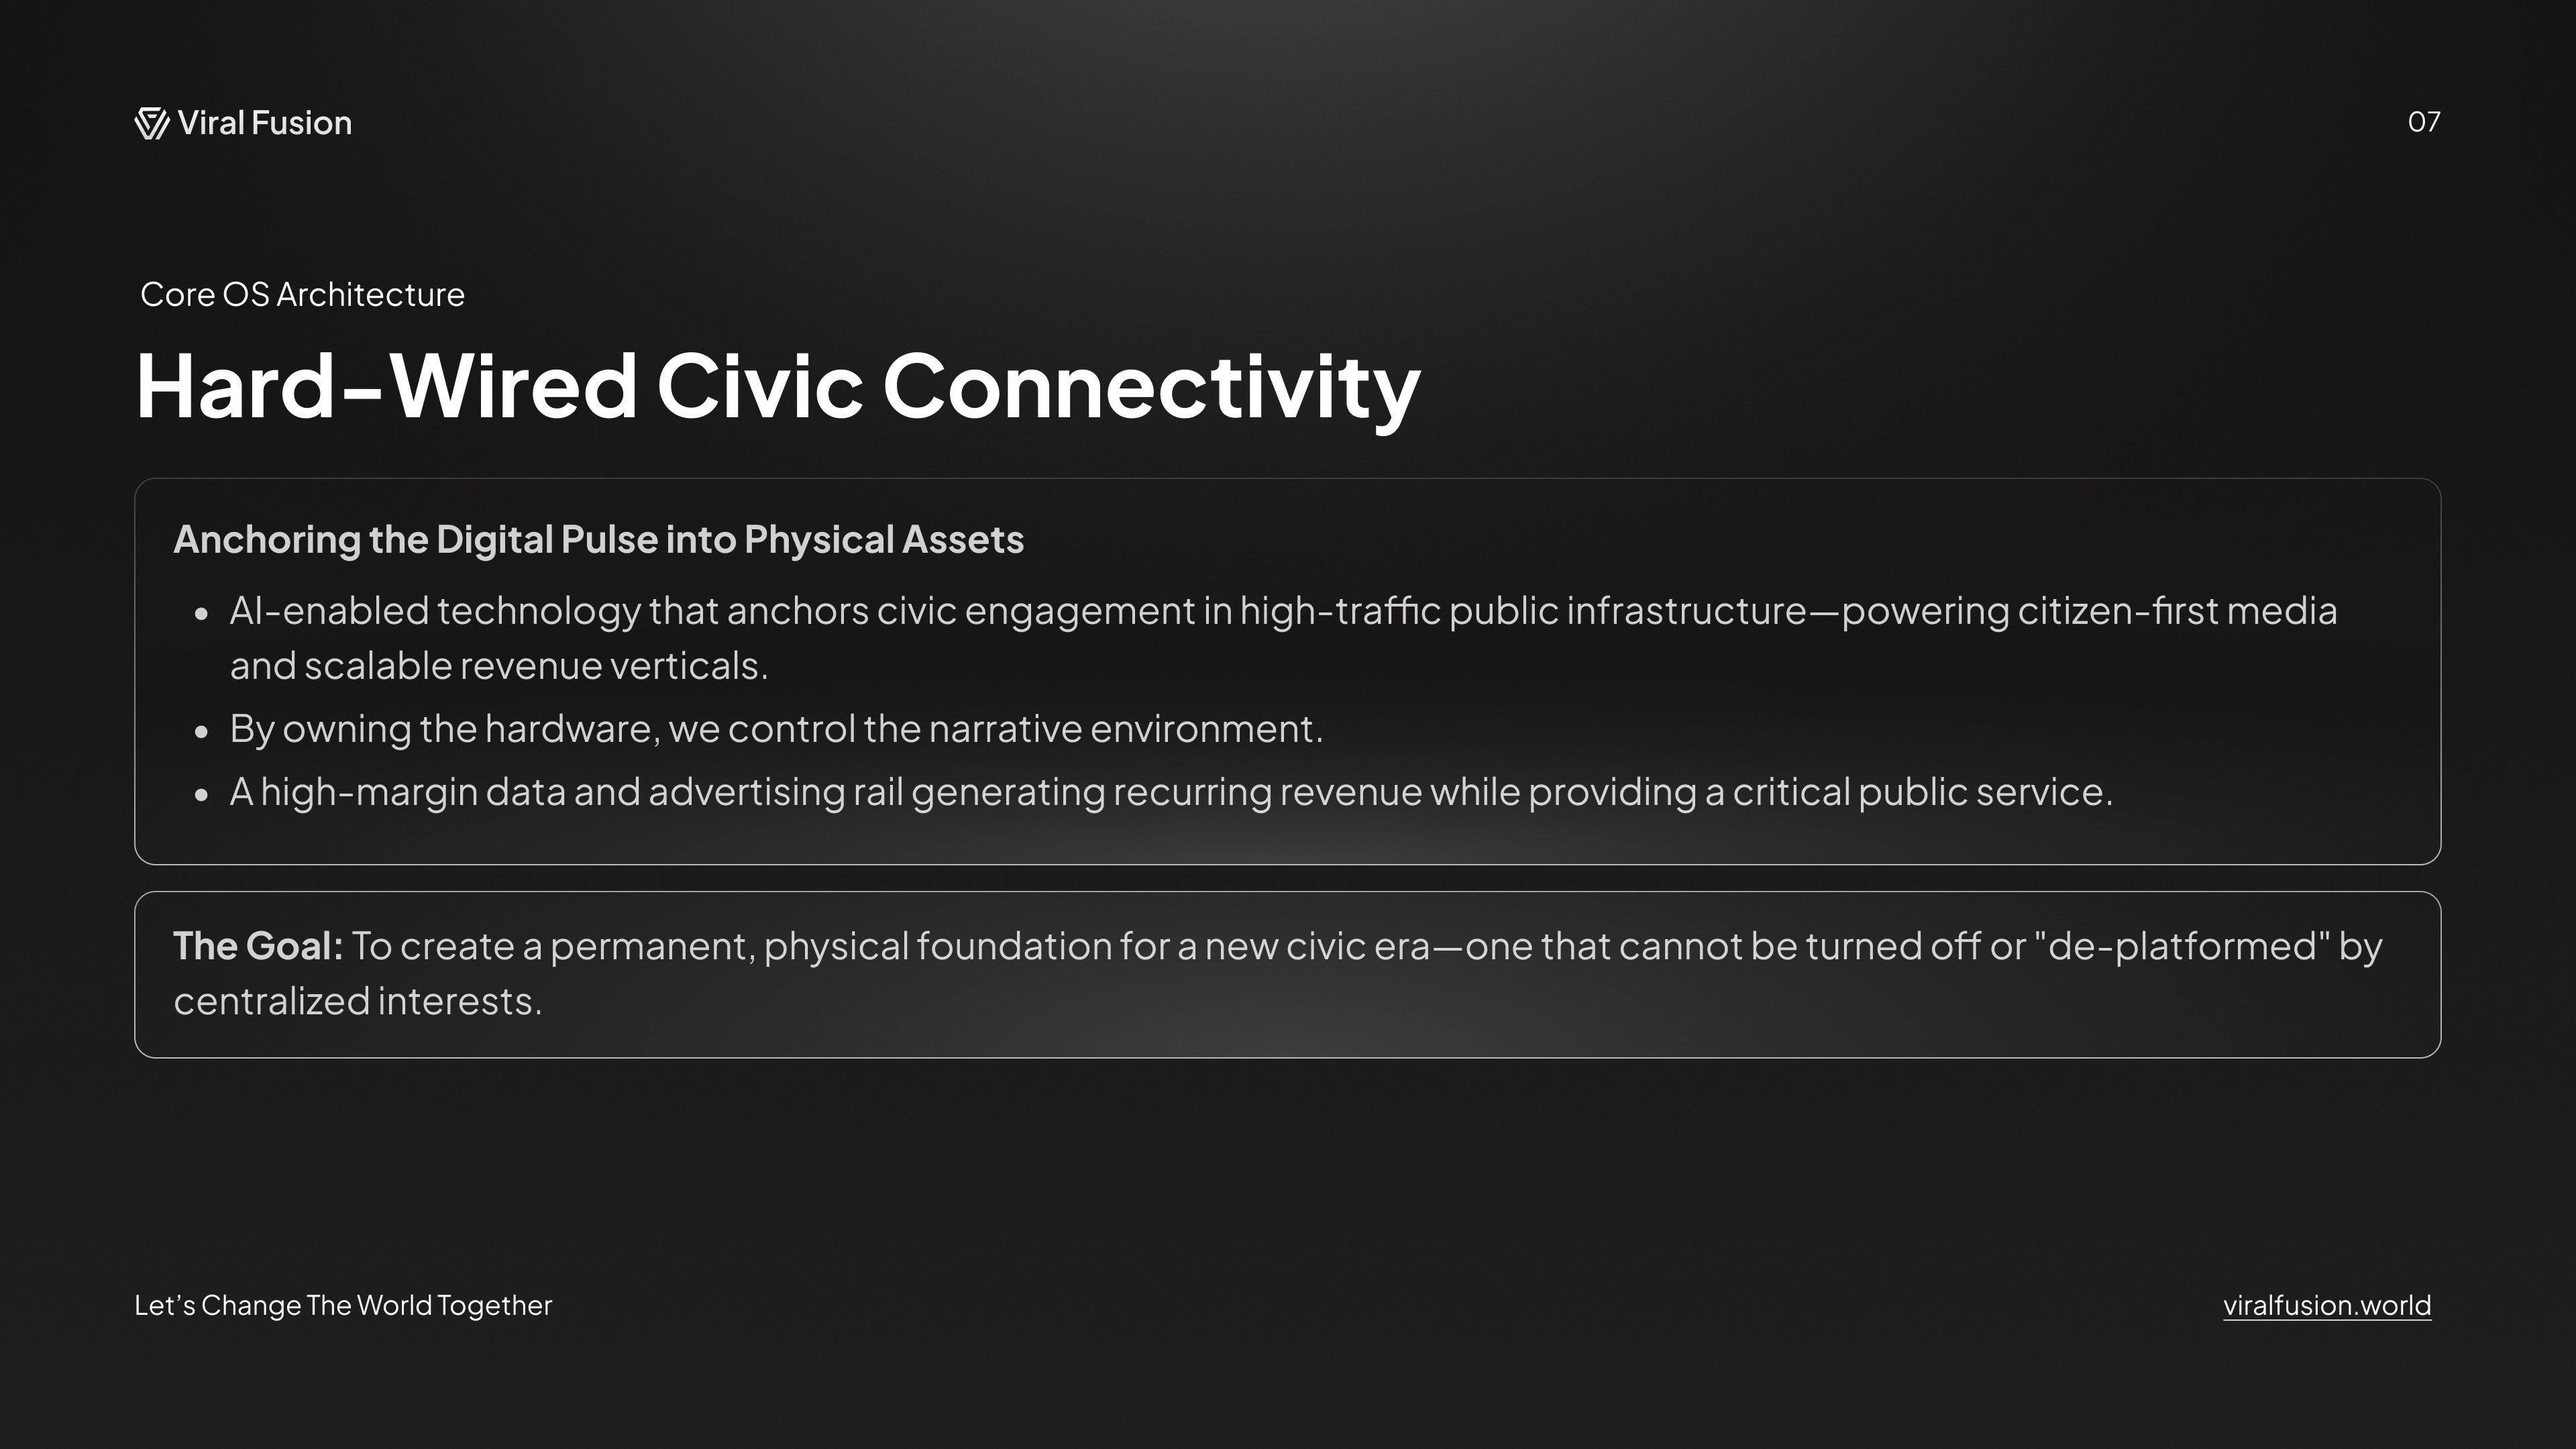
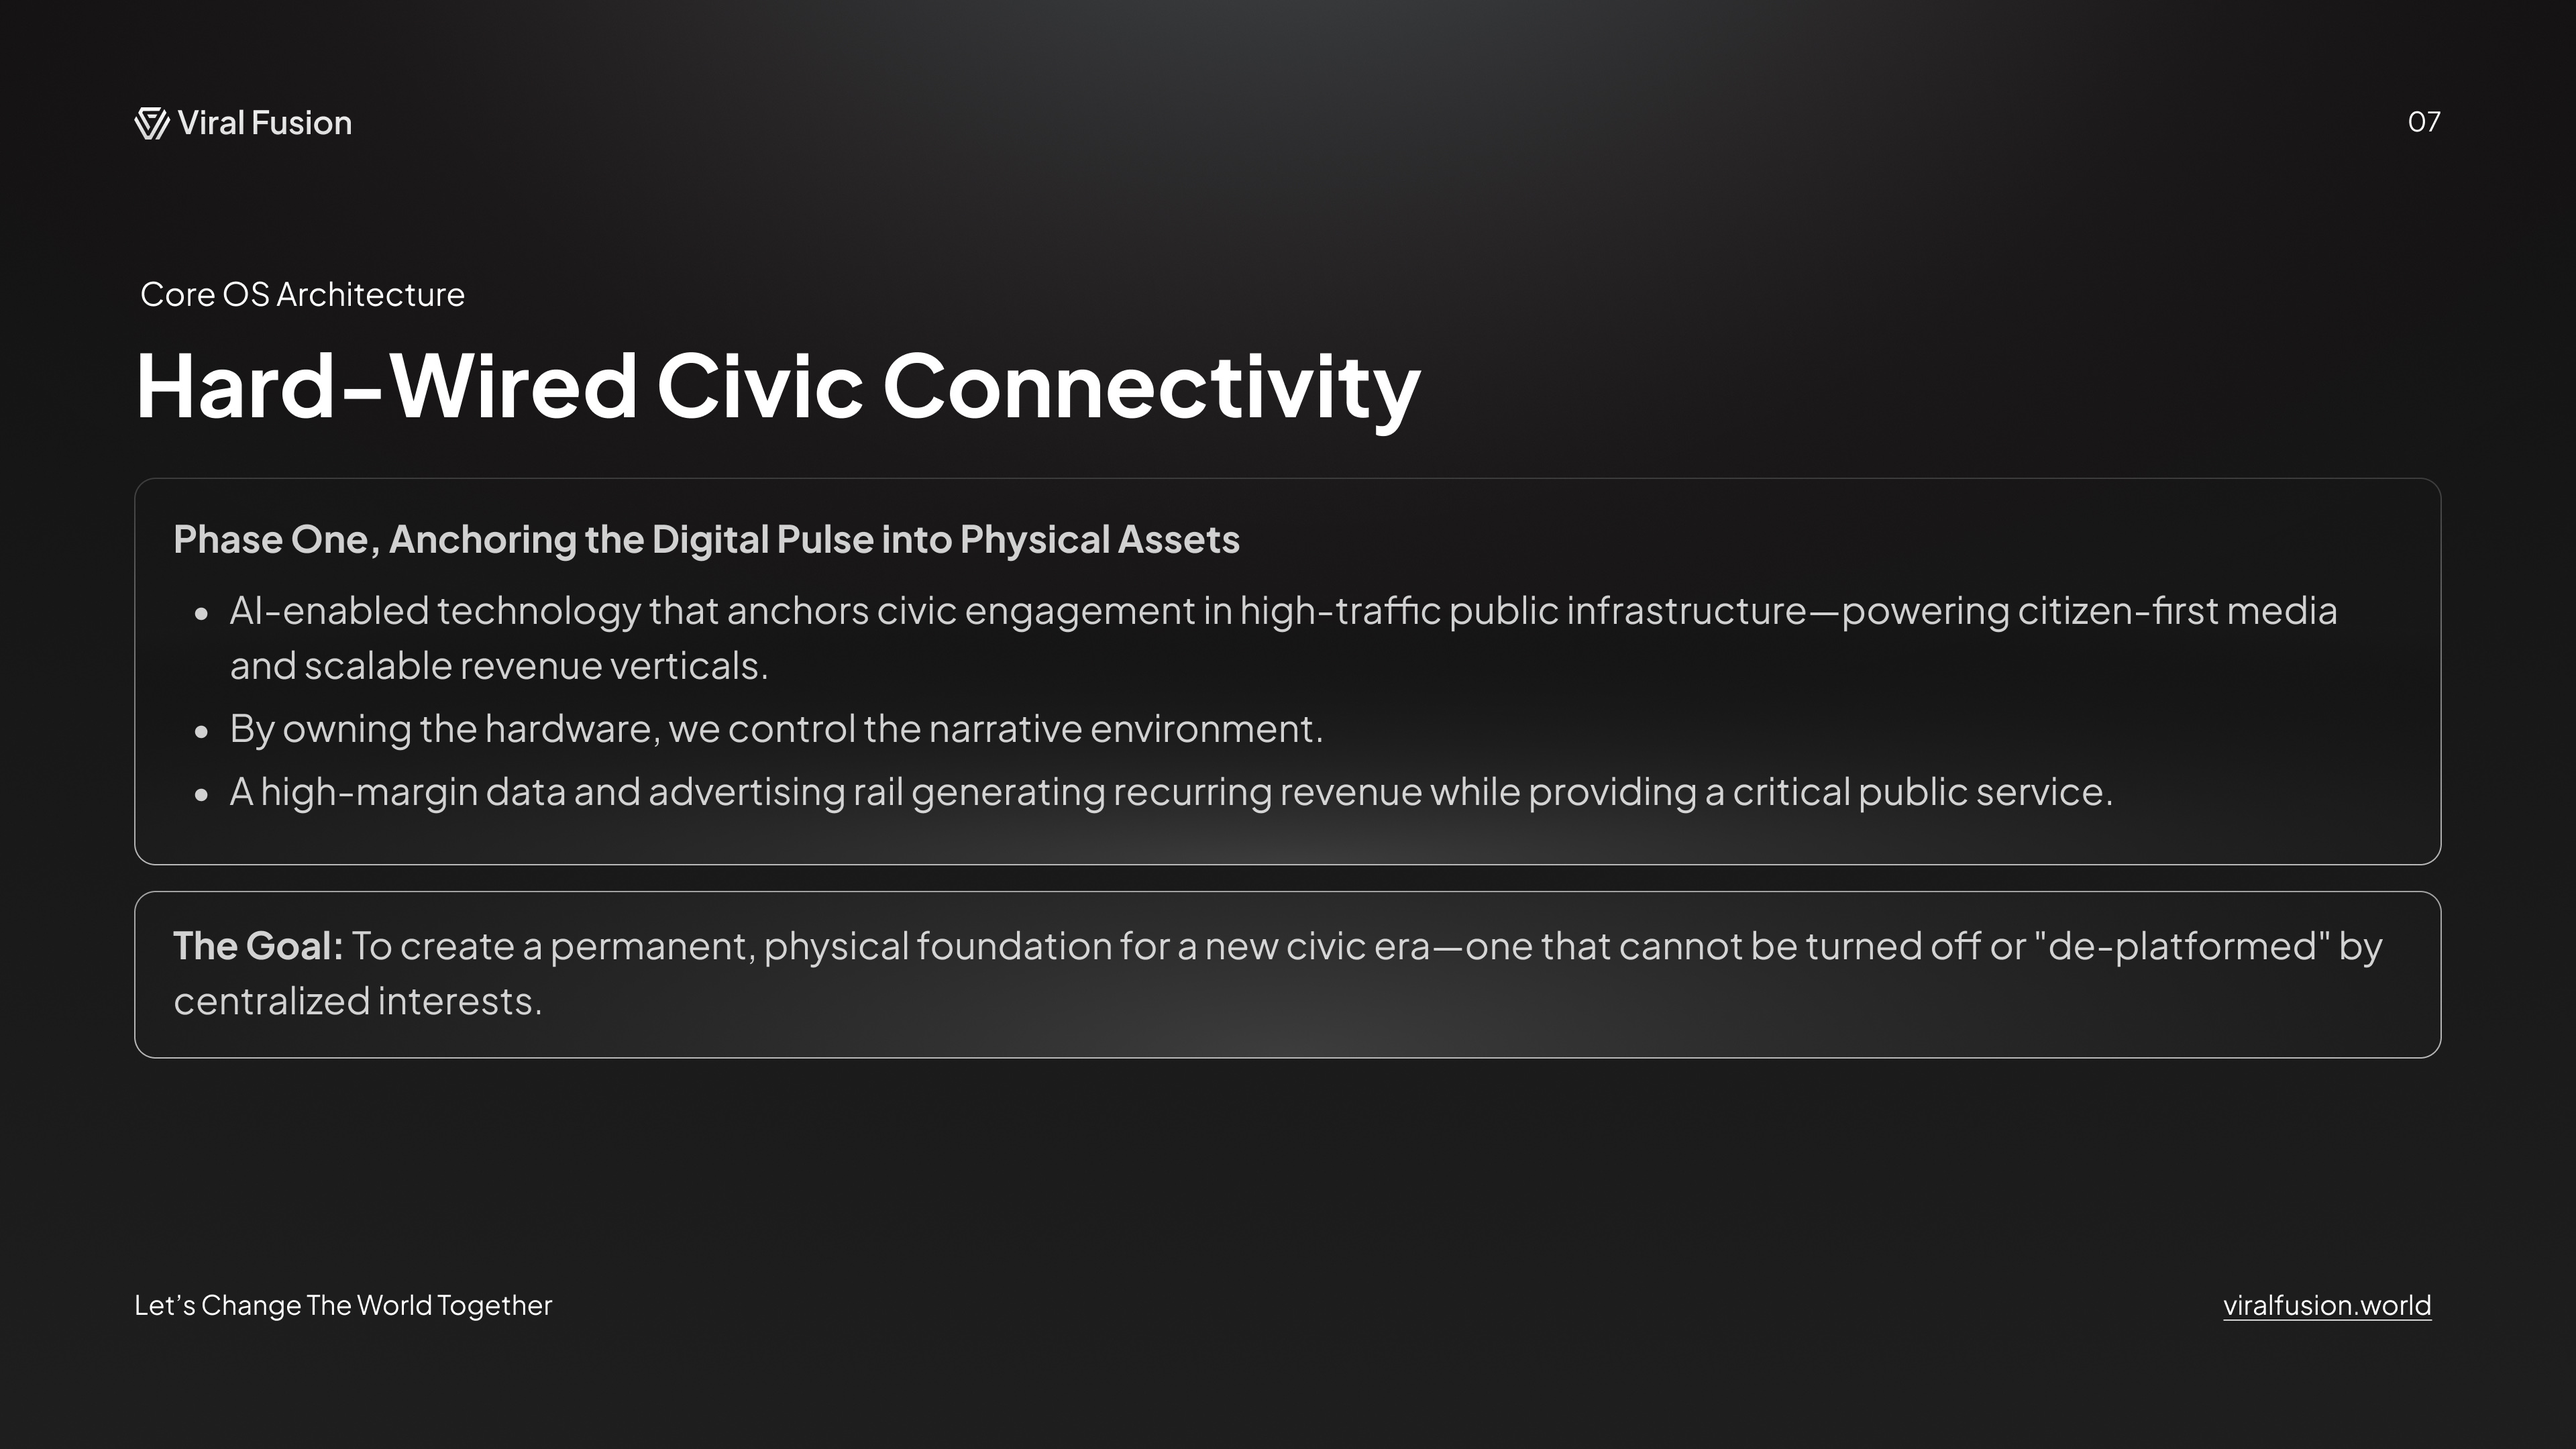
Update global vision slide flow

Changed region(s): [[0.0625, 0.3412, 0.4688, 0.4032]]

diff --git a/components/library-page.tsx b/components/library-page.tsx
@@ -101,7 +101,7 @@ const deckPageHashes: Record<string, number> = {
   "#decks": 12,
   "#presentation": 19,
   "#global-opportunities": 19,
-  "#strategymap": 32,
+  "#strategymap": 33,
 };
 
 function getPageFromHash(hash: string, totalPages: number) {
@@ -180,6 +180,12 @@ const promiseNotes = [
   "And we will Secure the Future to protect our children.",
   "Today, I will show you what happens when you give the right tools to those willing to fight.",
   "My promise to you—and everyone watching—is that together, we will change the world.",
+] as const;
+
+const globalVisionNotes = [
+  "We understand there are a ton of problems, domestically, and simultaneously, a lot of these same types of problems are playing out in multiple countries.",
+  "We need a starting point. A place that is so far gone in the minds and hearts of most people that creating a high level of change here is almost unfair.",
+  "Can you guess where we start?",
 ] as const;
 
 const technocratFigures: TechnocratFigure[] = [
@@ -886,14 +892,69 @@ function IpoStrategySlide() {
 }
 
 function GlobalVisionSlide() {
+  const [showNotes, setShowNotes] = useState(false);
+
   return (
-    <section className="flex h-full flex-col items-center justify-center px-[5%] py-6 text-center">
+    <section className="relative flex h-full flex-col items-center justify-center px-[5%] py-6 text-center">
       <header className="mx-auto max-w-4xl">
         <h1 className="font-display text-6xl font-semibold leading-[0.92] text-[#f4f2ec] sm:text-7xl lg:text-[5.6rem]">
           Global Vision
         </h1>
         <div className="mx-auto mt-6 h-px w-40 bg-[linear-gradient(90deg,transparent,rgba(1,199,243,0.78),transparent)]" />
       </header>
+
+      <button
+        type="button"
+        aria-label={showNotes ? "Hide Global Vision notes" : "Show Global Vision notes"}
+        title={showNotes ? "Hide notes" : "Show notes"}
+        onClick={() => setShowNotes((value) => !value)}
+        className="fixed right-6 top-6 z-30 flex h-11 w-11 items-center justify-center rounded-full border border-[#01c7f3]/60 bg-[#0f1d2a]/88 text-[#b9f2ff] shadow-[0_14px_34px_rgba(0,0,0,0.28)] transition-all hover:-translate-y-0.5 hover:border-[#01c7f3] focus:outline-none focus-visible:ring-2 focus-visible:ring-[#9beaff]/80 md:right-8 md:top-8"
+      >
+        {showNotes ? <X size={18} strokeWidth={2.2} /> : <NotebookText size={18} strokeWidth={2.1} />}
+      </button>
+
+      {showNotes ? (
+        <div
+          className="fixed inset-0 z-50 flex items-center justify-center bg-[#050b12]/64 px-5 py-8 backdrop-blur-sm"
+          role="dialog"
+          aria-modal="true"
+          aria-label="Global Vision notes"
+          onClick={() => setShowNotes(false)}
+        >
+          <div
+            className="relative max-h-[82vh] w-full max-w-4xl overflow-hidden rounded-[1.4rem] border border-[#01c7f3]/55 bg-[#0d1823] text-left shadow-[0_34px_100px_rgba(0,0,0,0.48)]"
+            onClick={(event) => event.stopPropagation()}
+          >
+            <div className="flex items-center justify-between gap-4 border-b border-white/10 px-5 py-4 sm:px-6">
+              <div className="min-w-0">
+                <p className="text-sm text-[#d8edf6]/72">
+                  Global Vision notes
+                </p>
+              </div>
+              <button
+                type="button"
+                aria-label="Close Global Vision notes"
+                onClick={() => setShowNotes(false)}
+                className="flex h-9 w-9 items-center justify-center rounded-full border border-white/10 bg-white/5 text-[#d8edf6] transition-colors hover:border-[#01c7f3]/60 hover:text-[#b9f2ff] focus:outline-none focus-visible:ring-2 focus-visible:ring-[#9beaff]/80"
+              >
+                <X size={17} strokeWidth={2.2} />
+              </button>
+            </div>
+            <div className="max-h-[calc(82vh-4.5rem)] overflow-y-auto px-5 py-5 sm:px-6 sm:py-6">
+              <div className="space-y-4">
+                {globalVisionNotes.map((note) => (
+                  <p
+                    key={note}
+                    className="text-[1rem] leading-7 text-[#d8edf6] sm:text-[1.12rem] sm:leading-8"
+                  >
+                    {note}
+                  </p>
+                ))}
+              </div>
+            </div>
+          </div>
+        </div>
+      ) : null}
     </section>
   );
 }
@@ -1272,12 +1333,13 @@ export function LibraryPage() {
   const [hasResolvedInitialHash, setHasResolvedInitialHash] = useState(false);
   const pageContainerRef = useRef<HTMLDivElement>(null);
   const mainDeckStartPage = 19;
-  const project2026Page = mainDeckStartPage + mainDeckSlides.length;
+  const howPage = mainDeckStartPage + mainDeckSlides.length;
+  const project2026Page = howPage + 1;
   const ipoStrategyPage = project2026Page + 1;
   const globalVisionPage = project2026Page + 2;
-  const strategyMapIntroPage = project2026Page + 3;
-  const strategyMapContentPage = project2026Page + 4;
-  const blackSwanPage = project2026Page + 5;
+  const blackSwanPage = project2026Page + 3;
+  const strategyMapIntroPage = project2026Page + 4;
+  const strategyMapContentPage = project2026Page + 5;
   const flagOutroPage = project2026Page + 6;
   const preCtaStartPage = project2026Page + 7;
   const mainDeckSlideIndex = currentPage - mainDeckStartPage;
@@ -1311,6 +1373,7 @@ export function LibraryPage() {
     isVisionRyanVideoSlide ||
     isVisionVideoSlide ||
     isMainDeckImageSlide ||
+    currentPage === howPage ||
     (currentPage >= project2026Page && currentPage <= globalVisionPage) ||
     isBlackSwanSlide ||
     currentPage === flagOutroPage ||
@@ -1505,6 +1568,8 @@ export function LibraryPage() {
               videoEmbedUrl={mainDeckSlideIndex === 7 ? vf8VideoEmbedUrl : undefined}
               onOpenVideo={setActiveVideoEmbedUrl}
             />
+          ) : currentPage === howPage ? (
+            <SectionTitleSlide title="HOW?" />
           ) : currentPage === project2026Page ? (
             <SectionTitleSlide title="Project 2026" voiceoverSrc="/project-2026-nrusa%20copy%202.mp3" />
           ) : currentPage === ipoStrategyPage ? (
